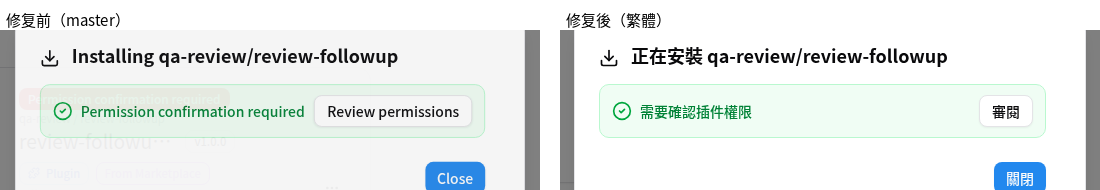
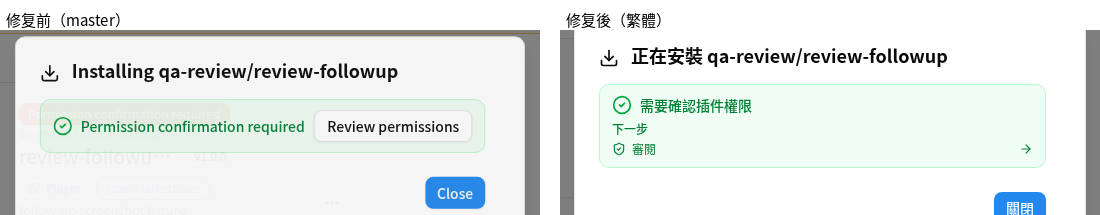
refactor(web): render the pending review as a next-step row

diff --git a/web/src/app/home/plugins/components/plugin-install-task/PluginInstallProgressDialog.tsx b/web/src/app/home/plugins/components/plugin-install-task/PluginInstallProgressDialog.tsx
@@ -1,5 +1,4 @@
 import { useEffect, useState } from 'react';
-import { Link } from 'react-router-dom';
 import { backendClient } from '@/app/infra/http';
 import type { Plugin } from '@/app/infra/entities/plugin';
 import {
@@ -8,6 +7,7 @@ import {
   DialogHeader,
   DialogTitle,
 } from '@/components/ui/dialog';
+import { ShieldCheck } from 'lucide-react';
 import { Progress } from '@/components/ui/progress';
 import { Button } from '@/components/ui/button';
 import {
@@ -24,6 +24,7 @@ import {
   PluginInstallTask,
 } from './PluginInstallTaskContext';
 import PluginInstallFollowUp from './PluginInstallFollowUp';
+import PluginNextStepRow from './PluginNextStepRow';
 
 type StageConfig = {
   key: InstallStage;
@@ -172,18 +173,25 @@ function TaskProgressContent({ task }: { task: PluginInstallTask }) {
                   ? t('plugins.installProgress.updateComplete')
                   : t('plugins.installProgress.installComplete')}
           </span>
-          {needsReview && task.pluginName.includes('/') && (
-            <Button asChild variant="outline" size="sm">
-              <Link
-                to={`/home/extensions?id=${encodeURIComponent(task.pluginName)}`}
-                onClick={() => setSelectedTaskId(null)}
-                aria-label={t('pluginPermissions.reviewLabel')}
-              >
-                {t('pluginPermissions.review')}
-              </Link>
-            </Button>
-          )}
         </div>
+        {needsReview && task.pluginName.includes('/') && (
+          <div
+            className="mt-1.5 space-y-1"
+            role="group"
+            aria-label={t('plugins.installProgress.followUp.nextSteps')}
+          >
+            <p className="text-xs font-medium text-green-700 dark:text-green-300">
+              {t('plugins.installProgress.followUp.nextSteps')}
+            </p>
+            <PluginNextStepRow
+              to={`/home/extensions?id=${encodeURIComponent(task.pluginName)}`}
+              icon={ShieldCheck}
+              text={t('pluginPermissions.review')}
+              label={t('pluginPermissions.reviewLabel')}
+              onNavigate={() => setSelectedTaskId(null)}
+            />
+          </div>
+        )}
         {isPlugin && !needsReview && (
           <PluginInstallFollowUp
             plugin={installedPlugin}

diff --git a/web/src/app/home/plugins/components/plugin-install-task/PluginInstallFollowUp.tsx b/web/src/app/home/plugins/components/plugin-install-task/PluginInstallFollowUp.tsx
@@ -1,8 +1,8 @@
-import { Link } from 'react-router-dom';
 import { useTranslation } from 'react-i18next';
-import { ArrowRight, Blocks, Bot, LibraryBig } from 'lucide-react';
+import { Blocks, Bot, LibraryBig } from 'lucide-react';
 import type { Plugin } from '@/app/infra/entities/plugin';
 import { FollowUpKind, followUpKindsForPlugin } from './plugin-follow-up';
+import PluginNextStepRow from './PluginNextStepRow';
 
 const FOLLOW_UP_PRESENTATION: Record<
   FollowUpKind,
@@ -55,16 +55,13 @@ export default function PluginInstallFollowUp({
       {kinds.map((kind) => {
         const { to, icon: Icon, i18nKey } = FOLLOW_UP_PRESENTATION[kind];
         return (
-          <Link
+          <PluginNextStepRow
             key={kind}
             to={to}
-            onClick={onNavigate}
-            className="flex items-center gap-1.5 text-xs text-green-700 hover:underline dark:text-green-300"
-          >
-            <Icon className="w-3.5 h-3.5 shrink-0" aria-hidden="true" />
-            <span className="flex-1">{t(i18nKey)}</span>
-            <ArrowRight className="w-3.5 h-3.5 shrink-0" aria-hidden="true" />
-          </Link>
+            icon={Icon}
+            text={t(i18nKey)}
+            onNavigate={onNavigate}
+          />
         );
       })}
     </div>

diff --git a/web/src/app/home/plugins/components/plugin-install-task/PluginNextStepRow.tsx b/web/src/app/home/plugins/components/plugin-install-task/PluginNextStepRow.tsx
@@ -1,0 +1,38 @@
+import { Link } from 'react-router-dom';
+import type { LucideIcon } from 'lucide-react';
+import { ArrowRight } from 'lucide-react';
+
+/**
+ * One "what now" row: icon, label, chevron.
+ *
+ * Both the follow-up steps and the pending-permission review use this so a
+ * finished install always looks the same regardless of which line it shows.
+ * Kept as a link so the row is navigable and keyboard-focusable; `label` is
+ * the full phrase for assistive tech when `text` is shortened for the eye.
+ */
+export default function PluginNextStepRow({
+  to,
+  icon: Icon,
+  text,
+  label,
+  onNavigate,
+}: {
+  to: string;
+  icon: LucideIcon;
+  text: string;
+  label?: string;
+  onNavigate?: () => void;
+}) {
+  return (
+    <Link
+      to={to}
+      onClick={onNavigate}
+      aria-label={label}
+      className="flex items-center gap-1.5 text-xs text-green-700 hover:underline dark:text-green-300"
+    >
+      <Icon className="w-3.5 h-3.5 shrink-0" aria-hidden="true" />
+      <span className="flex-1">{text}</span>
+      <ArrowRight className="w-3.5 h-3.5 shrink-0" aria-hidden="true" />
+    </Link>
+  );
+}

diff --git a/web/tests/e2e/plugin-install-followup-shots.spec.ts b/web/tests/e2e/plugin-install-followup-shots.spec.ts
@@ -167,12 +167,14 @@ test('parser-only install keeps the banner a single line', async ({ page }) => {
 test('pending permission review wins over the follow-up', async ({ page }) => {
   await installLangBotApiMocks(page, { authenticated: true });
   const dialog = await shoot(page, 'review');
+  // The review is the only row while it is pending: it sits in the same group
+  // the follow-up uses, so the two states look identical and must not stack.
+  const group = dialog.getByRole('group', { name: /Next steps/i });
+  await expect(group).toHaveCount(1);
   await expect(
-    dialog.getByRole('link', { name: /Review permissions|审阅权限|審閱權限/ }),
+    group.getByRole('link', { name: /Review permissions|审阅权限|審閱權限/ }),
   ).toBeVisible();
-  await expect(dialog.getByRole('group', { name: /Next steps/i })).toHaveCount(
-    0,
-  );
+  await expect(group.getByRole('link')).toHaveCount(1);
 });
 
 test('the pending-review list button is short but fully labelled', async ({

diff --git a/dev-docs/screenshots/2804/README.md b/dev-docs/screenshots/2804/README.md
@@ -10,7 +10,7 @@ Captured against a real Vite dev server with Playwright, API mocked (no backend)
 | `compare-review.png` | With a permission review pending, the Review button keeps the banner and no follow-up competes with it. |
 | `compare-multi-zh-Hans.png` / `compare-multi-zh-Hant.png` | The Chinese renderings. Copy is native, not translated English, and the traditional locale uses the same word for a plugin as the rest of its file. |
 | `full-review-list.png` | The same button in the pending-review list section, outside the dialog. Both call sites share the short text and the full label. |
-| `compare-review-zh-Hans.png` / `compare-review-zh-Hant.png` | The review button shortens to 审阅 / 審閱 like every other control; the full phrase stays in `aria-label`. The pending banner drops 外掛 for 插件. |
+| `compare-review-zh-Hans.png` / `compare-review-zh-Hant.png` | Pending review now renders as the same row as a follow-up step — icon, text, chevron under the shared heading — instead of a bordered button, so the two end states are indistinguishable. The visible text shortens to Review / 审阅 / 審閱 with the full phrase in `aria-label`; the pending banner drops 外掛 for 插件. |
 
 Reproduce:
 
